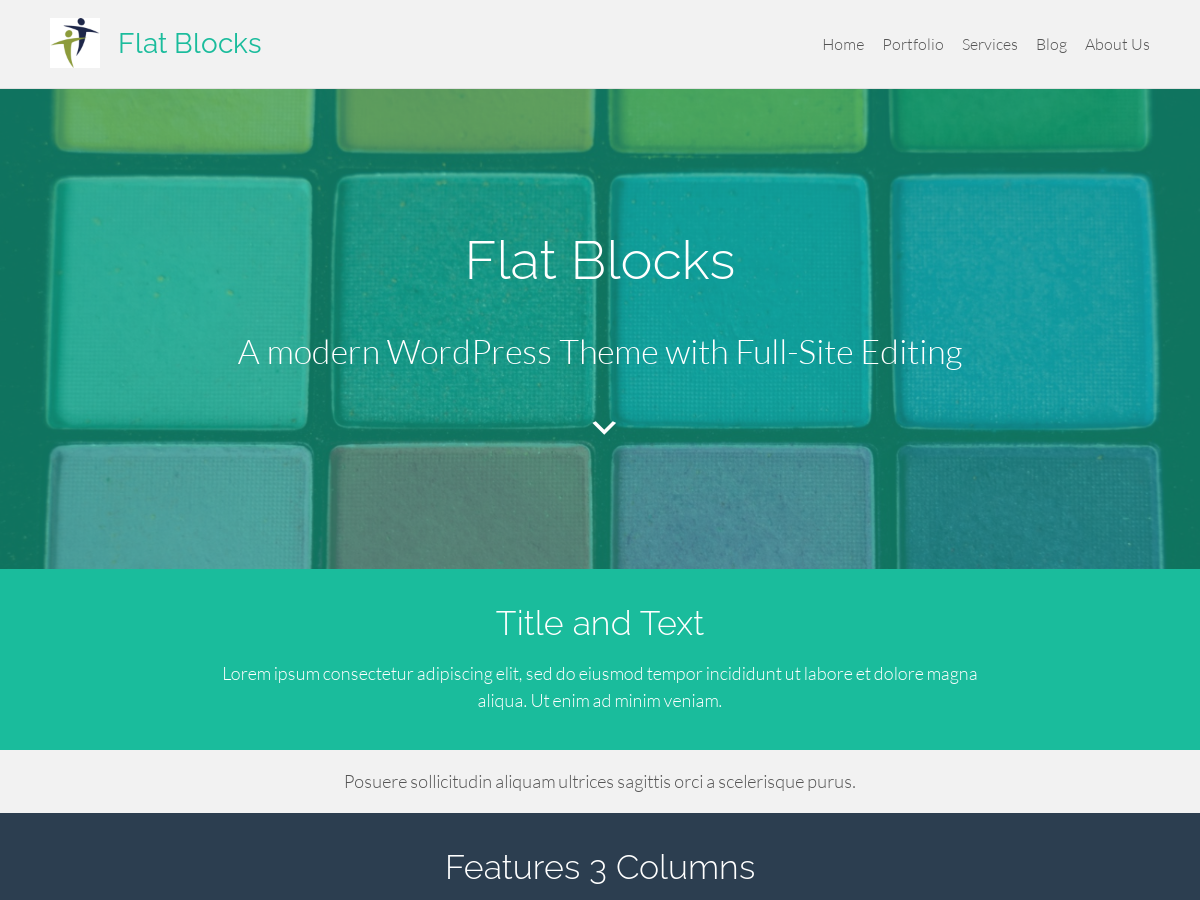
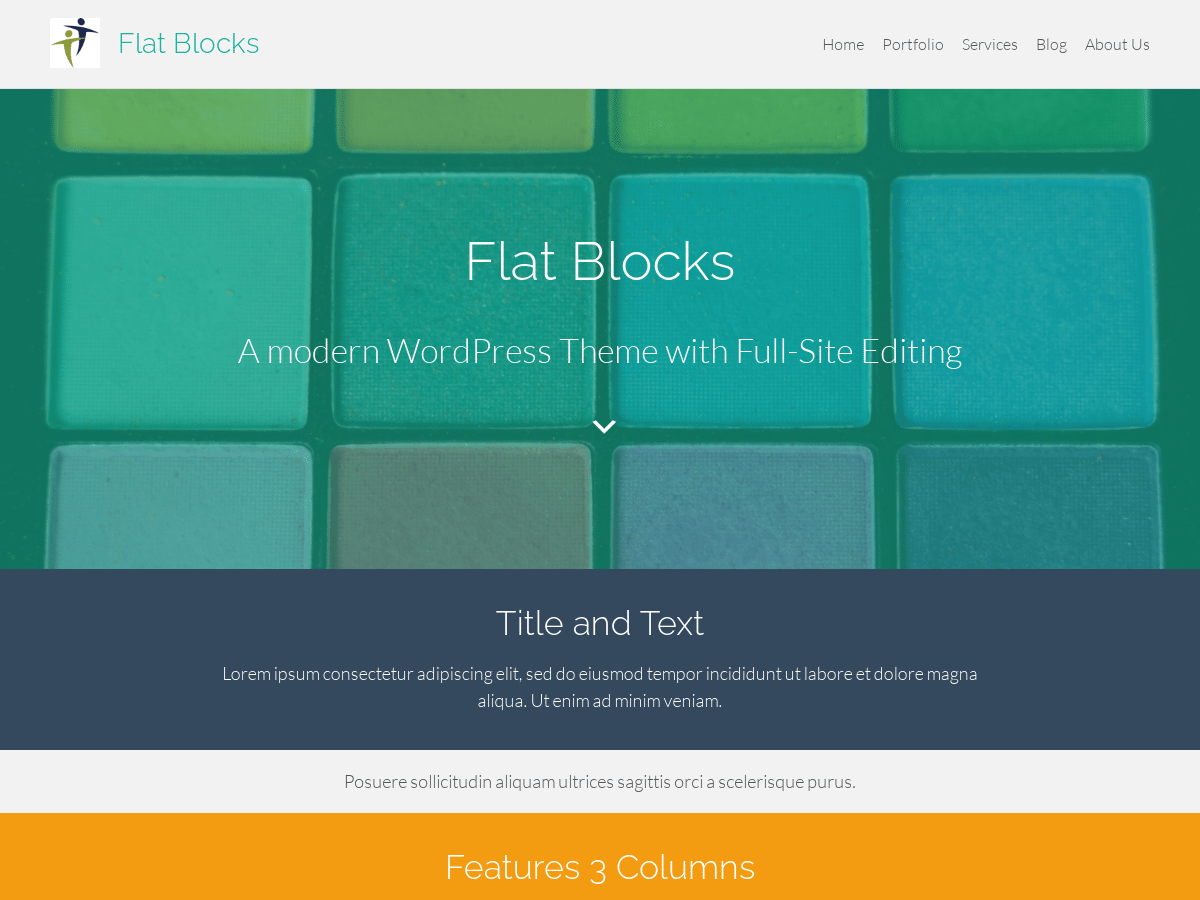
v1.2.4
* Update theme screenshot to show primary, secondary, and tertiary color for a better theme preview on WordPress.org.
* Update the CSS for images to prevent older block editor markup that uses wp-block-caption from breaking the layout.

diff --git a/assets/css/flat-blocks.css b/assets/css/flat-blocks.css
@@ -224,6 +224,20 @@ ul.wp-block-navigation__submenu-container.has-background {
 # Images
 --------------------------------------------------------------*/
 
+/* Prevent images with hard-coded dimensions from breaking the layout. Note the figure
+ * line is for older block editor markup and the is-root-container is for hte editor
+ * which adds an extra div between the image container (figure) and the image itself. 
+ */
+.wp-block-image:not(.alignfull),
+.wp-block-image:not(.alignfull) img,
+figure:not(.alignfull),
+figure:not(.alignfull) img,
+.is-root-container .wp-block-image:not(.alignfull) > * {
+	width: 100% !important;
+	height: auto !important;
+	max-width: 100% !important;
+}
+
 /* FIX caption color when on colored background */
 .wp-block-image figcaption {
 	color: inherit;

diff --git a/style.css b/style.css
@@ -7,7 +7,7 @@ Description: Flat Blocks is a modern “flat” style theme with a nice color pa
 Requires at least: 6.2
 Tested up to: 6.2
 Requires PHP: 5.7
-Version: 1.2.3
+Version: 1.2.4
 License: GNU General Public License v2 or later
 License URI: http://www.gnu.org/licenses/gpl-2.0.html
 Text Domain: flat-blocks
